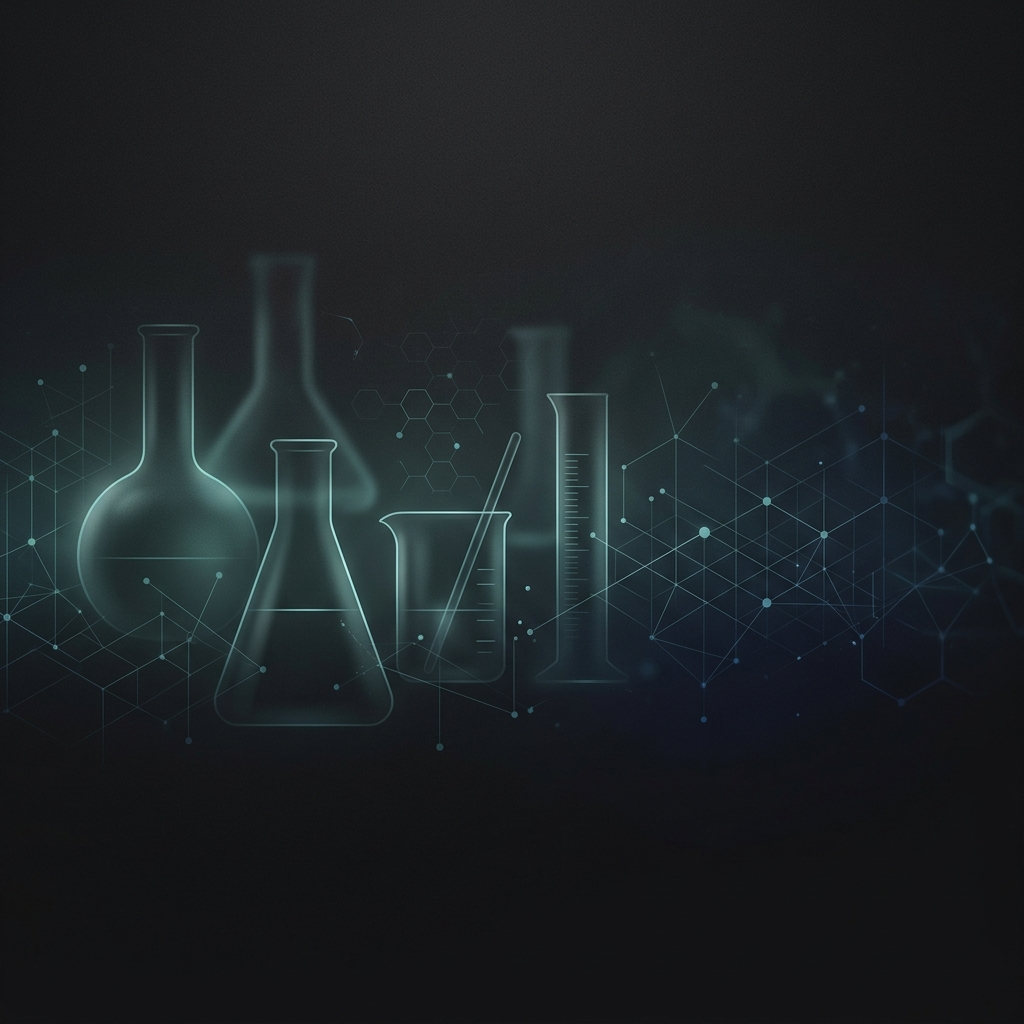
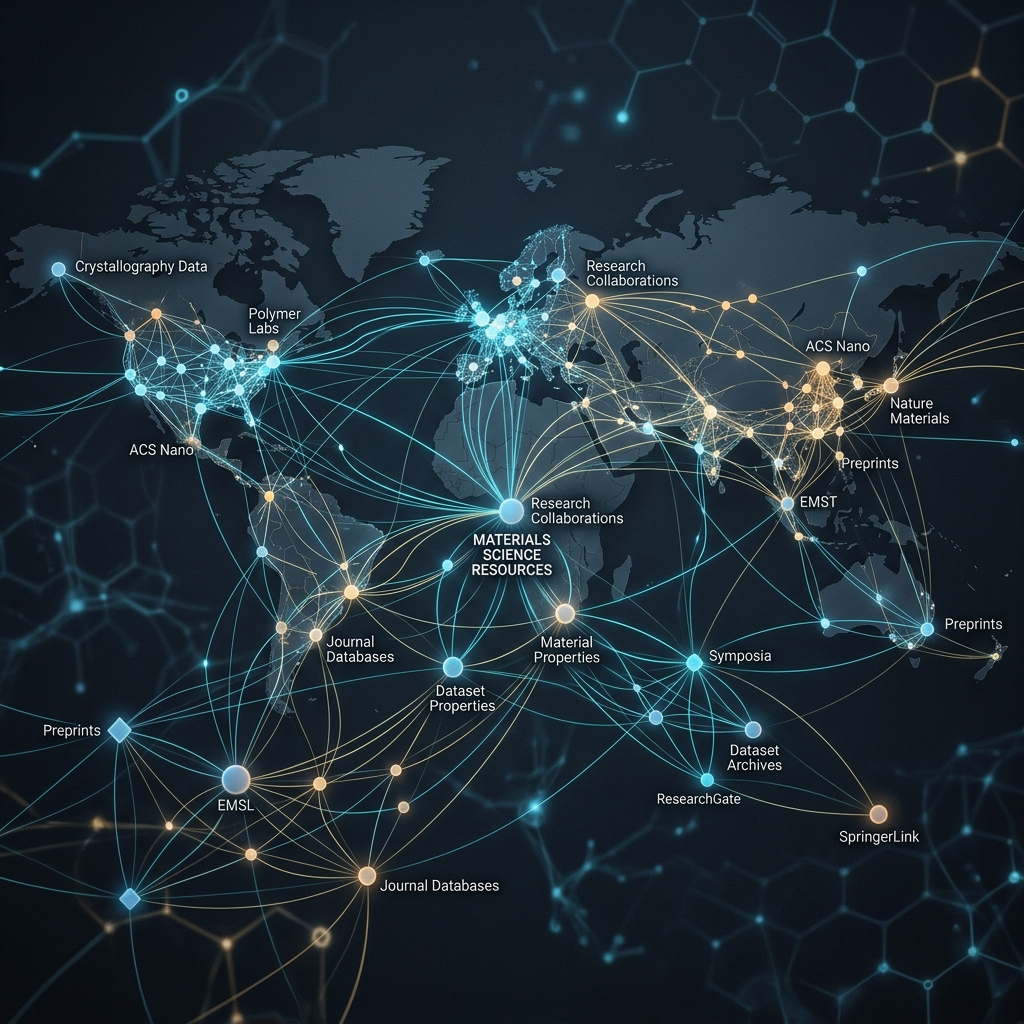
Update website

diff --git a/css/style.css b/css/style.css
@@ -327,11 +327,11 @@ p { margin-bottom: 1rem; }
   border-left: 6px solid var(--accent-strong);
 }
 .page-header.bg-document {
-  background-image: linear-gradient(135deg, rgba(32, 32, 32, 0.85) 0%, rgba(32, 32, 32, 0.95) 100%);
+  background-image: linear-gradient(135deg, rgba(32, 32, 32, 0.85) 0%, rgba(32, 32, 32, 0.95) 100%), url('../images/document-bg.png');
   border-left: 6px solid var(--accent-strong);
 }
 .page-header.bg-tool {
-  background-image: linear-gradient(135deg, rgba(32, 32, 32, 0.85) 0%, rgba(32, 32, 32, 0.95) 100%);
+  background-image: linear-gradient(135deg, rgba(32, 32, 32, 0.85) 0%, rgba(32, 32, 32, 0.95) 100%), url('../images/tool-bg.png');
   border-left: 6px solid var(--accent-strong);
 }
 
@@ -341,11 +341,11 @@ p { margin-bottom: 1rem; }
   border-left: 6px solid var(--aux-color);
 }
 .page-header.bg-database {
-  background-image: linear-gradient(135deg, rgba(32, 32, 32, 0.85) 0%, rgba(32, 32, 32, 0.95) 100%);
+  background-image: linear-gradient(135deg, rgba(32, 32, 32, 0.85) 0%, rgba(32, 32, 32, 0.95) 100%), url('../images/database-bg.png');
   border-left: 6px solid var(--aux-color);
 }
 .page-header.bg-equipment {
-  background-image: linear-gradient(135deg, rgba(32, 32, 32, 0.85) 0%, rgba(32, 32, 32, 0.95) 100%);
+  background-image: linear-gradient(135deg, rgba(32, 32, 32, 0.85) 0%, rgba(32, 32, 32, 0.95) 100%), url('../images/equipment-bg.png');
   border-left: 6px solid var(--aux-color);
 }
 
